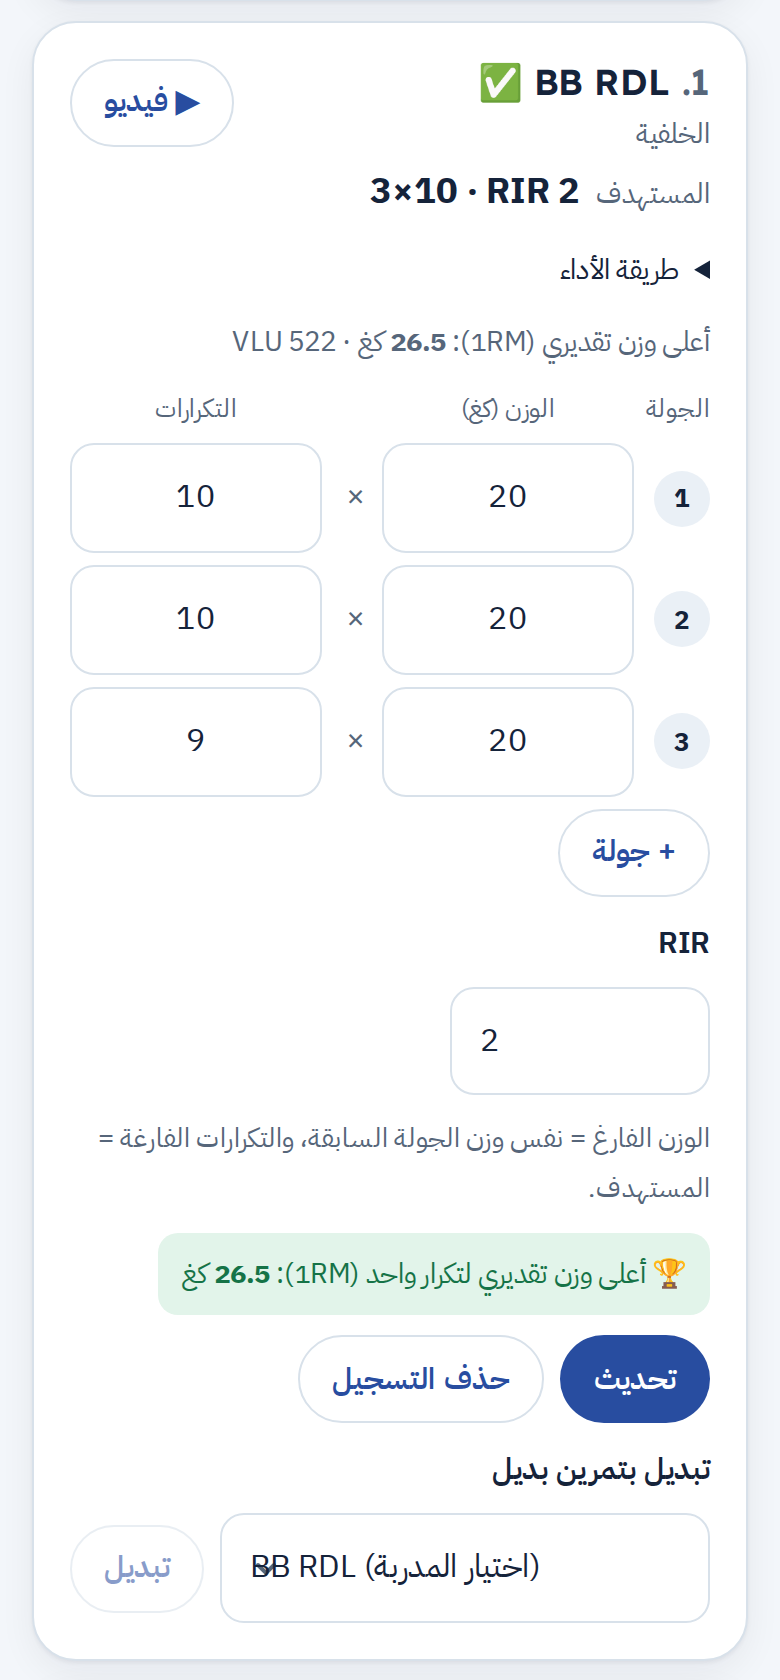
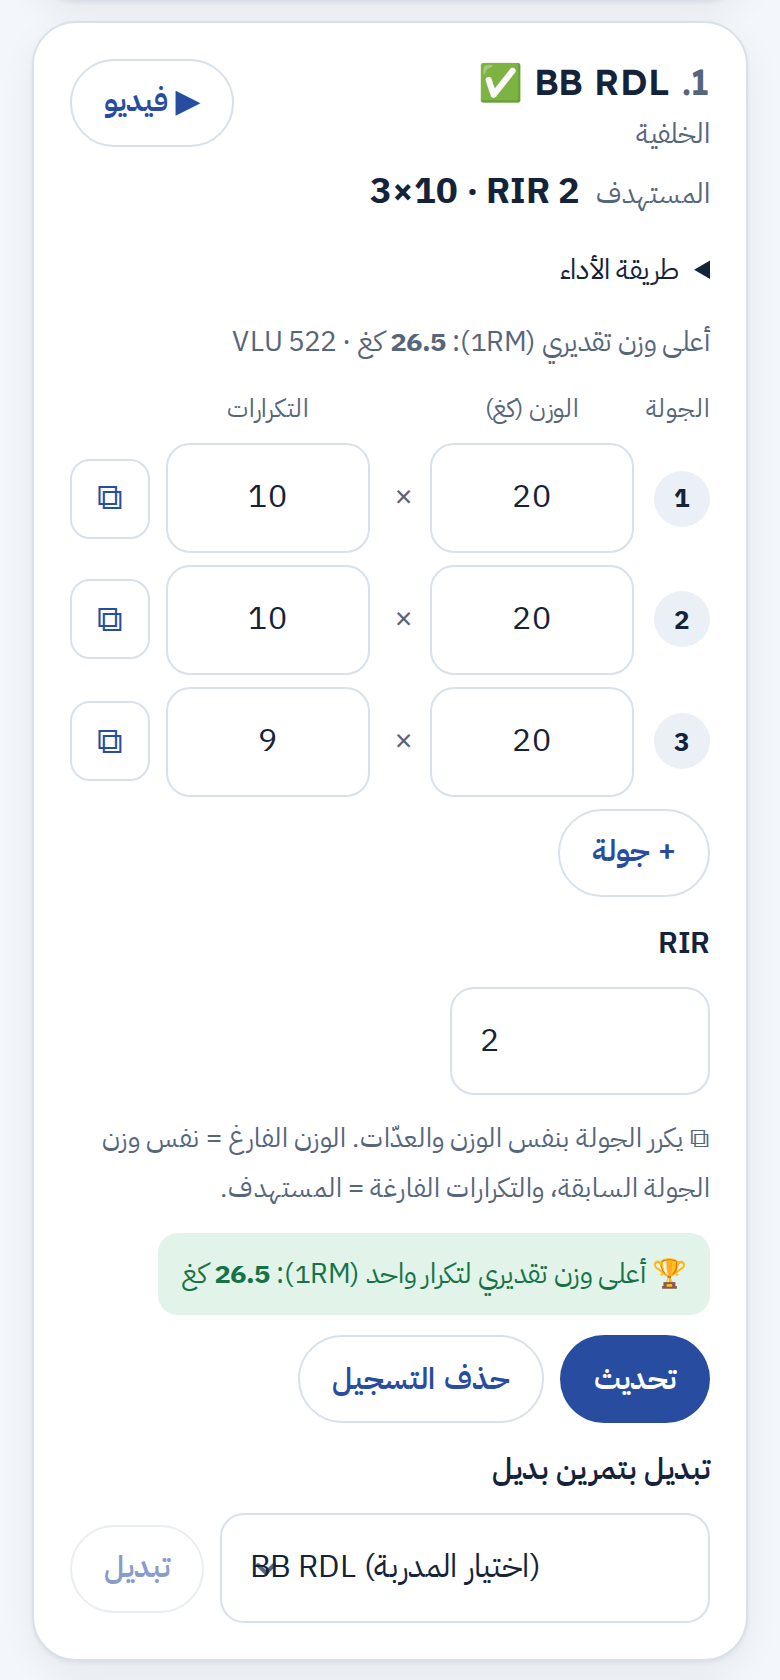
Training log: ⧉ duplicate-set button (same weight and reps, inserted after the set) and «+ جولة» copies the last set, like Hevy; guide updated
Claude-Session: https://claude.ai/code/session_01A1WaCdLQnTRQkH7Ps2Mz3T

diff --git a/src/app/(site)/account/orders/[orderNo]/training/TrainingForms.tsx b/src/app/(site)/account/orders/[orderNo]/training/TrainingForms.tsx
@@ -26,13 +26,24 @@ export function ItemLogForm({ orderNo, item, week, target, targetRir, log }: {
   const ws: number[] = [], rs: number[] = [];
   for (let i = 0; i < sets; i++) { lastW = num(w[i]) ?? lastW; const rr = num(r[i]) ?? target[i]; if (rr != null) { ws.push(lastW); rs.push(rr); } }
   const est = num(w[0]) != null ? bestOneRm(ws, rs) : 0;
+  // القيمة الفعلية لجولة (الفارغ = السابق للوزن، والمستهدف للتكرارات)
+  const effW = (i: number) => { let v: number | null = null; for (let j = 0; j <= i; j++) v = num(w[j]) ?? v; return v; };
+  const effR = (i: number) => num(r[i]) ?? target[i] ?? null;
+  /** تكرار الجولة: جولة جديدة بعدها بنفس الوزن والتكرارات (مثل Hevy) */
+  const duplicate = (i: number) => {
+    if (sets >= MAX_SETS) return;
+    const ins = <T,>(a: T[], v: T) => [...a.slice(0, i + 1), v, ...a.slice(i + 1)].slice(0, MAX_SETS);
+    setW((a) => ins(a, effW(i) != null ? String(effW(i)) : ""));
+    setR((a) => ins(a, effR(i) != null ? String(effR(i)) : ""));
+    setSets(sets + 1);
+  };
   return (
     <form className="form log-form" onSubmit={onSubmit} data-testid={`log-${item}`}>
       <input type="hidden" name="order_no" value={orderNo} />
       <input type="hidden" name="item" value={item} />
       <input type="hidden" name="week" value={week} />
       <div className="set-rows" role="group" aria-label="الجولات">
-        <div className="set-row set-head small muted" aria-hidden="true"><span>الجولة</span><span>الوزن (كغ)</span><span /><span>التكرارات</span></div>
+        <div className="set-row set-head small muted" aria-hidden="true"><span>الجولة</span><span>الوزن (كغ)</span><span /><span>التكرارات</span><span /></div>
         {Array.from({ length: sets }, (_, i) => (
           <div className="set-row" key={i}>
             <span className="set-no">{i + 1}</span>
@@ -41,10 +52,12 @@ export function ItemLogForm({ orderNo, item, week, target, targetRir, log }: {
             <span className="muted" aria-hidden="true">×</span>
             <input name="reps" type="text" inputMode="numeric" dir="ltr" aria-label={`تكرارات الجولة ${i + 1}`} value={r[i]}
               placeholder={target[i] != null ? String(target[i]) : ""} onChange={(e) => setR((a) => a.map((v, j) => (j === i ? e.target.value : v)))} />
+            <button type="button" className="set-dup" onClick={() => duplicate(i)} disabled={sets >= MAX_SETS}
+              aria-label={`تكرار الجولة ${i + 1}`} title="تكرار الجولة بنفس الوزن والعدّات">⧉</button>
           </div>
         ))}
         <div className="row" style={{ gap: 8 }}>
-          {sets < MAX_SETS && <button type="button" className="btn btn-ghost btn-sm" onClick={() => setSets(sets + 1)}>+ جولة</button>}
+          {sets < MAX_SETS && <button type="button" className="btn btn-ghost btn-sm" onClick={() => duplicate(sets - 1)}>+ جولة</button>}
           {sets > Math.max(1, target.length) && <button type="button" className="btn btn-ghost btn-sm" onClick={() => setSets(sets - 1)}>− جولة</button>}
         </div>
       </div>
@@ -52,7 +65,7 @@ export function ItemLogForm({ orderNo, item, week, target, targetRir, log }: {
         <label htmlFor={`r-${p}`}>RIR</label>
         <input id={`r-${p}`} name="rir" type="number" inputMode="decimal" step="0.5" min={0} max={10} dir="ltr" placeholder={targetRir != null ? String(targetRir) : ""} defaultValue={log?.rir ?? ""} />
       </div>
-      <p className="hint" style={{ margin: 0 }}>الوزن الفارغ = نفس وزن الجولة السابقة، والتكرارات الفارغة = المستهدف.</p>
+      <p className="hint" style={{ margin: 0 }}>⧉ يكرر الجولة بنفس الوزن والعدّات. الوزن الفارغ = نفس وزن الجولة السابقة، والتكرارات الفارغة = المستهدف.</p>
       {est > 0 && <p className="small one-rm" data-testid="one-rm" style={{ margin: 0 }}>🏆 أعلى وزن تقديري لتكرار واحد (1RM): <b className="num">{est}</b> كغ</p>}
       <FormMessage state={state} />
       <div className="row" style={{ gap: 8 }}>

diff --git a/src/lib/guide.ts b/src/lib/guide.ts
@@ -43,7 +43,7 @@ export const GUIDE: GuideSection[] = [
     intro: "مثال: 20 كغ في الجولات الثلاث، تكرارات 10 و10 و9، RIR 2 → VLU = 522.",
     shots: [
       { key: "log", caption: "بطاقة التمرين بعد التسجيل", steps: [
-        { title: "الجولات: وزن × تكرارات", body: "اكتب وزن كل جولة وتكراراتها. الوزن الفارغ = نفس وزن الجولة السابقة، والتكرارات الفارغة = المستهدف. «+ جولة» تضيف جولة زيادة." },
+        { title: "الجولات: وزن × تكرارات", body: "اكتب وزن كل جولة وتكراراتها. ⧉ يكرر الجولة بنفس الوزن والعدّات، و«+ جولة» تضيف جولة بنفس آخر جولة. الوزن الفارغ = نفس وزن الجولة السابقة، والتكرارات الفارغة = المستهدف." },
         { title: "RIR", body: "عدد التكرارات الباقية للفشل العضلي (0–4 عادةً)." },
         { title: "1RM تقديري", body: "أعلى وزن تقدر تشيله لتكرار واحد، محسوب تلقائياً من أفضل جولة (معادلة Epley). للمتابعة فقط، مو مطلوب تختبره." },
         { title: "حفظ", body: "بعد الحفظ تظهر ✅ بجانب اسم التمرين، ويُحسب VLU تلقائياً." },

diff --git a/src/app/globals.css b/src/app/globals.css
@@ -910,8 +910,11 @@ h2 .count { display: inline-grid; place-items: center; min-inline-size: 26px; bl
 .gamers-note { color: #9fb0c9; font-size: 13px; padding-inline: 4px; }
 @media (max-width: 860px) { .gamers-banner { grid-template-columns: minmax(0, 1fr); } }
 /* تسجيل التمرين: وزن × تكرارات لكل جولة */
-.set-rows { display: grid; gap: 6px; max-width: 380px; }
-.set-row { display: grid; grid-template-columns: 30px minmax(0, 1fr) 14px minmax(0, 1fr); gap: 8px; align-items: center; }
+.set-rows { display: grid; gap: 6px; max-width: 420px; }
+.set-row { display: grid; grid-template-columns: 30px minmax(0, 1fr) 14px minmax(0, 1fr) 40px; gap: 8px; align-items: center; }
+.set-dup { width: 40px; height: 40px; border-radius: 10px; border: 1px solid var(--line); background: var(--surface); color: var(--accent-text); font-size: 18px; cursor: pointer; }
+.set-dup:hover:not(:disabled) { border-color: var(--cyan); }
+.set-dup:disabled { opacity: 0.4; cursor: default; }
 .set-row input { text-align: center; padding-inline: 6px; min-width: 0; }
 .set-head { font-size: 12.5px; }
 .set-head span { text-align: center; }
